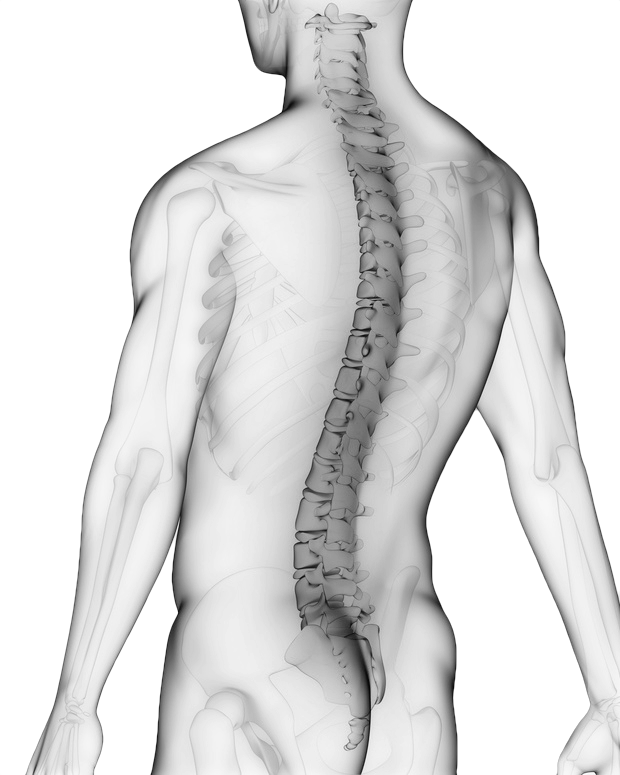
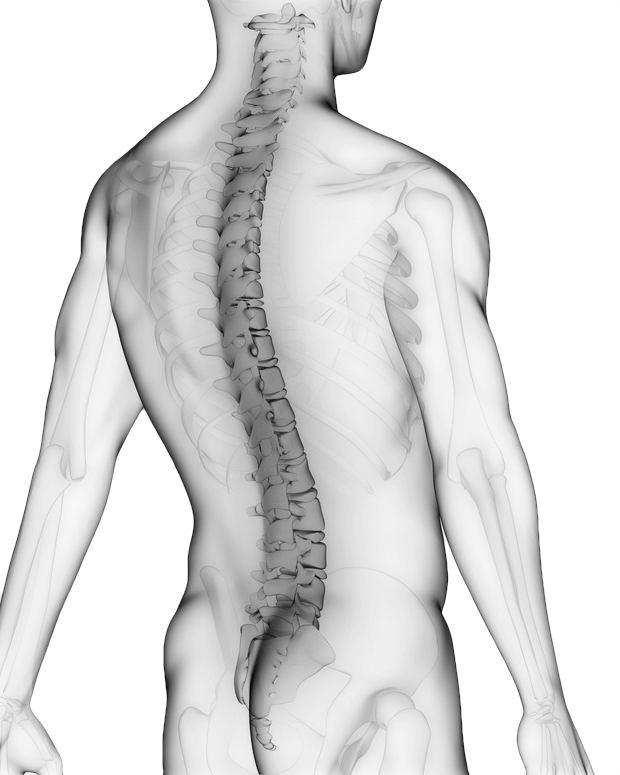
styling

diff --git a/public/scripts/components/bars/Bar.jsx b/public/scripts/components/bars/Bar.jsx
@@ -5,6 +5,7 @@ export default class extends React.Component {
   static propTypes = {
     img: React.PropTypes.string,
     title: React.PropTypes.node,
+    subtitle: React.PropTypes.node,
     infos: React.PropTypes.arrayOf(React.PropTypes.node),
     buttonStart: React.PropTypes.bool,
     className: React.PropTypes.string,
@@ -30,15 +31,20 @@ export default class extends React.Component {
       <div className={'bar ' + (this.props.className || '')} ref="bar">
         <img className={(this.props.imgRight ? 'bar__img--right' : 'bar__img--left')} src={this.props.img} />
         <div className="bar__title">{this.props.title}</div>
-        {(
-          this.props.infos ?
+        {
+          this.props.subtitle &&
+          <div className="bar__subtitle"><div className="bar__infos__group">
+            <div className="bar__infos__info">{this.props.subtitle}</div>
+          </div></div>
+        }
+        {
+          this.props.infos &&
           <div className="bar__infos"><div className="bar__infos__group">{
             this.props.infos.map((info, i) => {
               return <div key={i} className="bar__infos__info">{info}</div>;
             })
-          }</div></div> :
-          null
-        )}
+          }</div></div>
+        }
         {(
           this.props.buttonStart ?
           <div className="bar__next">

diff --git a/public/styles/bars.scss b/public/styles/bars.scss
@@ -33,10 +33,10 @@
   }
 
   &__img--left {
-    height: 100%;
-    left: 60px;
+    left: 0;
     opacity: .5;
     position: absolute;
+    top: -50px;
   }
 
   &__img--right {
@@ -53,11 +53,13 @@
     z-index: 100;
   }
 
-  &__infos {
+  &__subtitle {
     font-style: italic;
     padding: 0 0 40px;
-    position: relative;
-    z-index: 100;
+  }
+
+  &__infos {
+    padding: 0 0 40px;
 
     @include phone {
       display: flex;

diff --git a/public/scripts/components/bars/BarActive.jsx b/public/scripts/components/bars/BarActive.jsx
@@ -1,18 +1,13 @@
 import React from 'react';
 import Bar from 'scripts/components/bars/Bar.jsx';
 
-import men from 'imgs/men.png';
-
 export default class extends React.Component {
   render() {
     return (
       <Bar
-        img={men}
         imgRight={true}
-        title={'Aktiv'}
-        infos={[
-          <div>Leben is Bewegung,<br/>Bewegung ist Gesundheit,<br/>Gesundheit ist Leben</div>
-        ]}
+        title="Aktiv"
+        subtitle={<div>&laquo;Leben is Bewegung,<br/>Bewegung ist Gesundheit,<br/>Gesundheit ist Leben&raquo;</div>}
         className="bar--blue"
         buttonStart={true}
       />

diff --git a/public/scripts/components/bars/BarPhysio.jsx b/public/scripts/components/bars/BarPhysio.jsx
@@ -8,10 +8,8 @@ export default class extends React.Component {
     return (
       <Bar
         img={wirbelsaeule}
-        title="Physiotherapie"
-        infos={[
-          <div>ihre Gesundheit ist mein Ziel</div>
-        ]}
+        title="Physio&shy;therapie"
+        subtitle="&laquo;ihre Gesundheit ist mein Ziel&raquo;"
         className="bar--red"
       />
     );

diff --git a/public/scripts/components/bars/BarCompany.jsx b/public/scripts/components/bars/BarCompany.jsx
@@ -9,9 +9,9 @@ export default class extends React.Component {
     return (
       <Bar
         title={<img src={logo}/>}
+        subtitle="das gesundheitszentrum für prävention und rehabilitation"
         infos={[
-          <div><Icon name="map-marker"/> Widdengasse 16 5070 Frick</div>,
-          <div><Icon name="clock-o"/> Mo - Fr 09:00 - 17:00</div>,
+          <div><Icon name="map-marker"/> Widengasse 16 5070 Frick</div>,
           <div><Icon name="phone"/> [phone redacted]</div>,
           <div><Icon name="email"/> [email redacted]</div>
         ]}